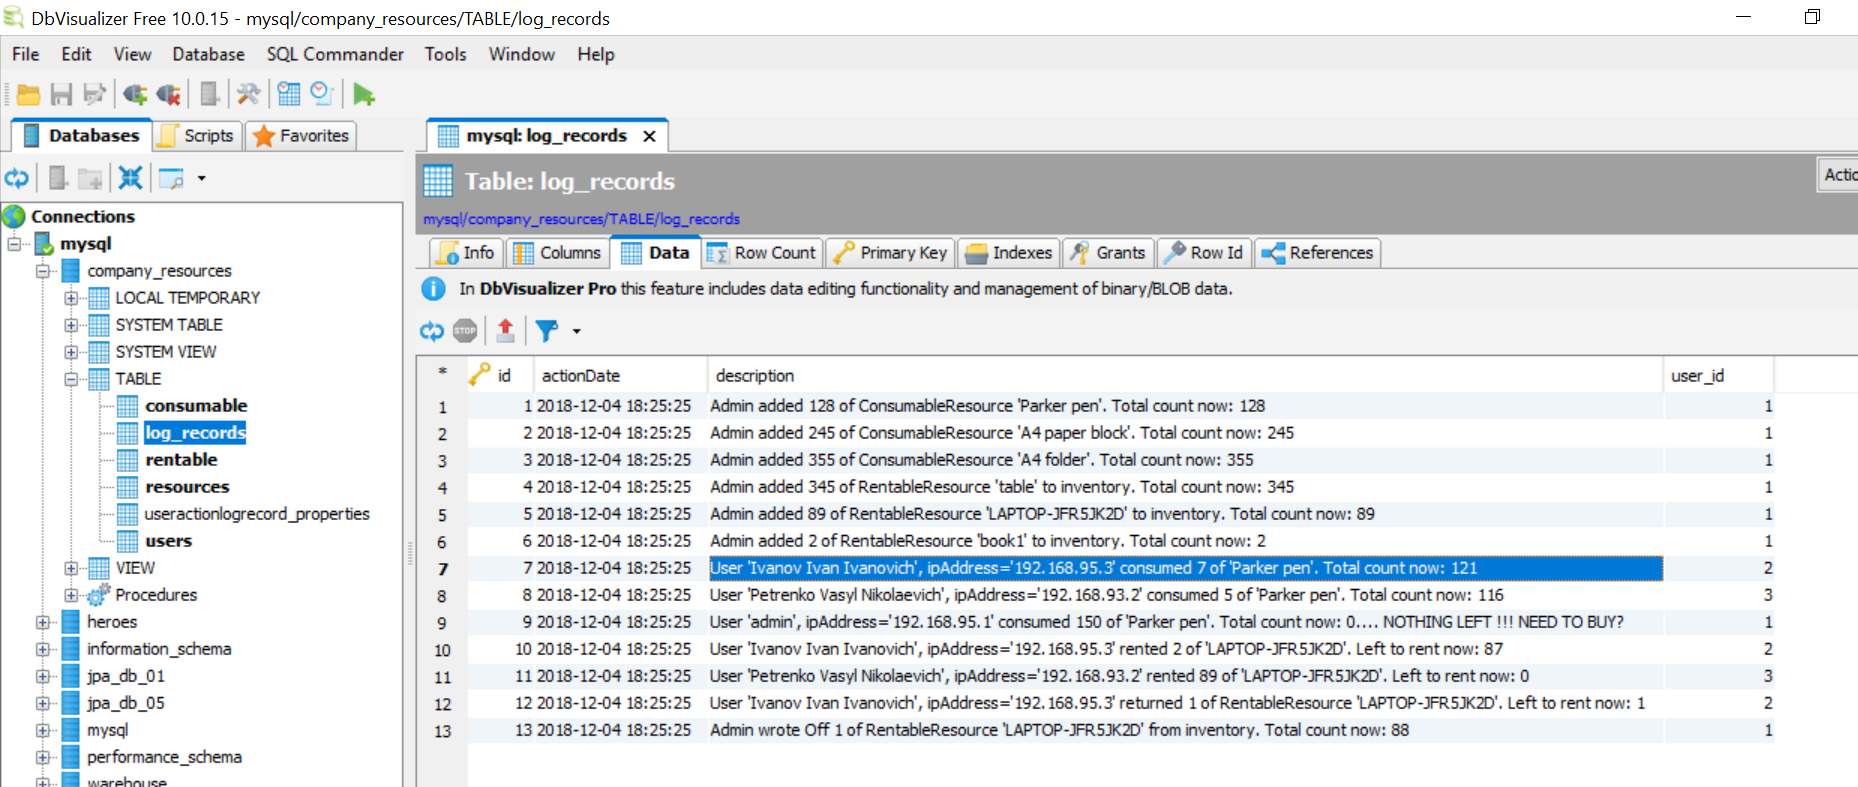
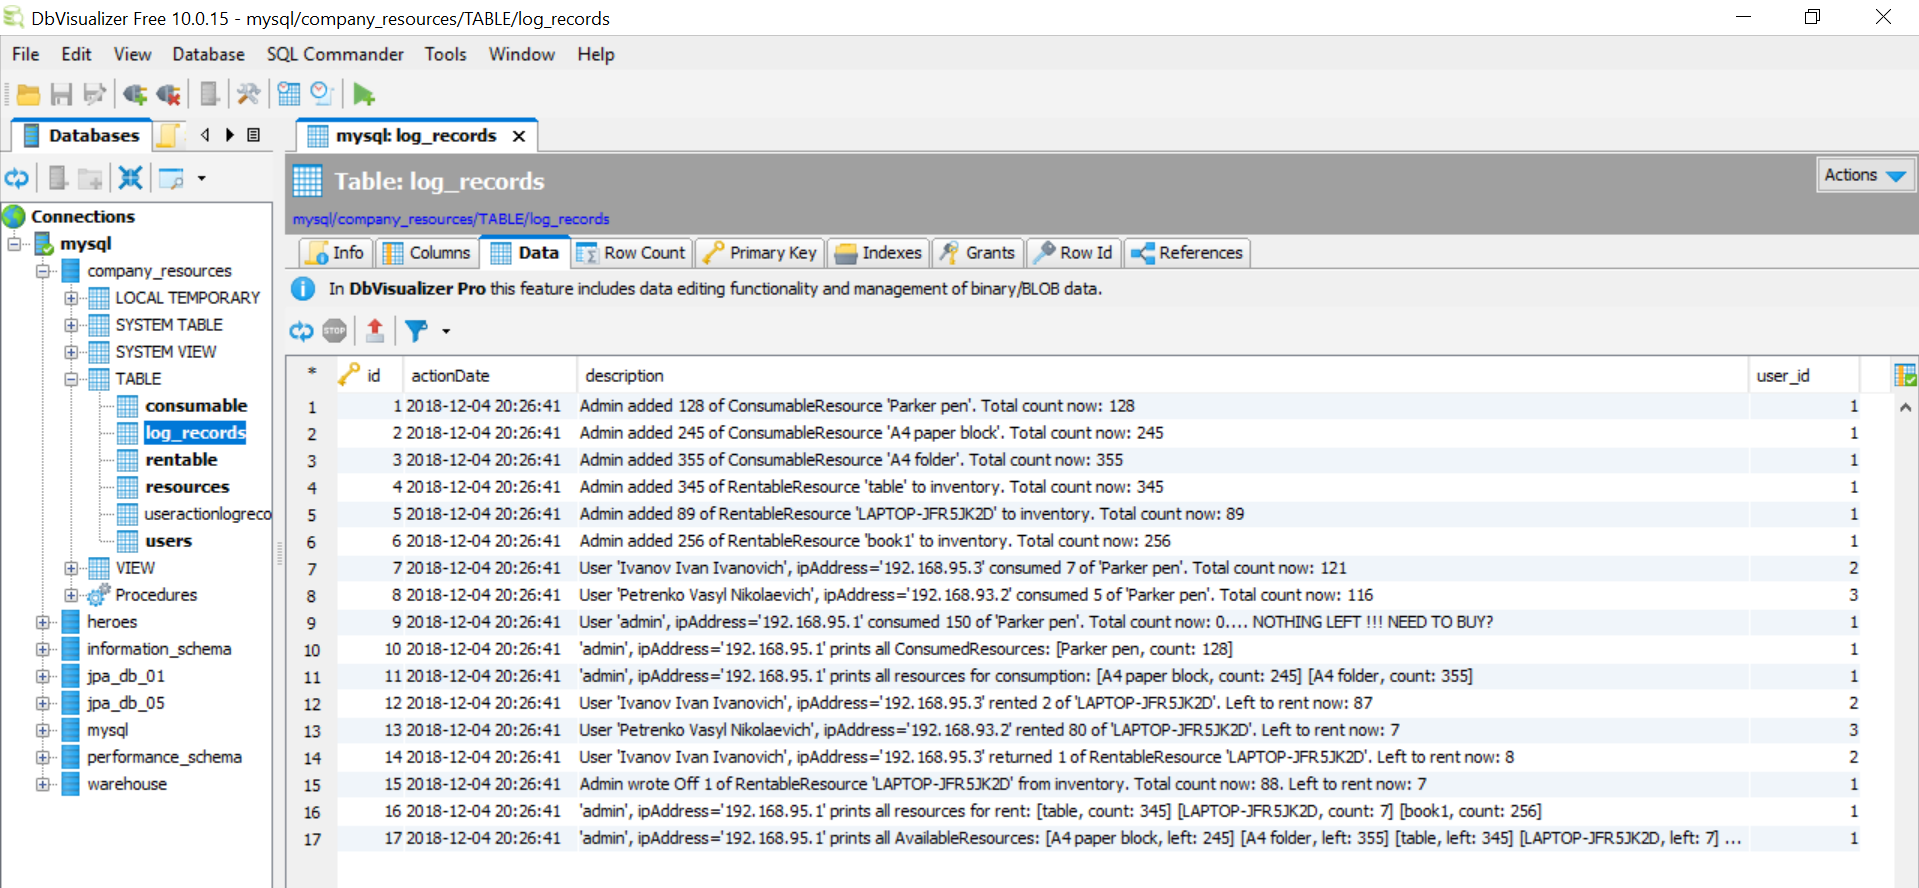
query listResourcesForRent() was added

diff --git a/src/main/java/com/gmail/kramarenko104/Launcher.java b/src/main/java/com/gmail/kramarenko104/Launcher.java
@@ -76,19 +76,19 @@ public class Launcher {
         RentableResource rentRes3 = new RentableResource();
         rentRes3.setId(6);
         rentRes3.setName("book1");
-        rentServ.addResourceToInventory(admin, rentRes3, 2);
+        rentServ.addResourceToInventory(admin, rentRes3, 256);
 
         //////////////////////////////////////////////////////////////
         // all these actions should be added to log
         consServ.consumeResource(user1, consRes1, 7);
         consServ.consumeResource(user2, consRes1, 5);
-        consServ.consumeResource(admin, consRes1, 10);
+        consServ.consumeResource(admin, consRes1, 150);
         consServ.printListConsumedResources(admin);
         consServ.printListResourcesForConsumption(admin);
 
         ////////////////////
         rentServ.checkoutResource(user1, rentRes2, 2);
-        rentServ.checkoutResource(user2, rentRes2, 89);
+        rentServ.checkoutResource(user2, rentRes2, 80);
         rentServ.checkinResource(user1, rentRes2, 1);
         rentServ.writeOffResourceFromInventory(admin, rentRes2, 1);
         rentServ.printListResourcesForRent(admin);

diff --git a/src/main/java/com/gmail/kramarenko104/service/RentableResourceService.java b/src/main/java/com/gmail/kramarenko104/service/RentableResourceService.java
@@ -1,6 +1,5 @@
 package com.gmail.kramarenko104.service;
 
-import com.gmail.kramarenko104.entity.ConsumableResource;
 import com.gmail.kramarenko104.entity.RentableResource;
 import com.gmail.kramarenko104.entity.User;
 import javax.persistence.EntityManager;
@@ -34,6 +33,7 @@ public class RentableResourceService extends CommonResourceService {
         String description = "Admin wrote Off " + amount +
                 " of RentableResource " + resource.toString() +
                 " from inventory. Total count now: " + resource.getTotalAmount() +
+                ". Left to rent now: " + resource.getLeftAmount() +
                 ((resource.getTotalAmount() == 0) ? ".... NOTHING LEFT !!! NEED TO BUY?": "");
         log.recordUserAction(user, new Date(), description);
     }
@@ -79,4 +79,5 @@ public class RentableResourceService extends CommonResourceService {
         }
         log.recordUserAction(user, new Date(), sb.toString());
     }
+
 }

diff --git a/src/main/java/com/gmail/kramarenko104/entity/RentableResource.java b/src/main/java/com/gmail/kramarenko104/entity/RentableResource.java
@@ -1,17 +1,20 @@
 package com.gmail.kramarenko104.entity;
 
 import javax.persistence.Entity;
+import javax.persistence.NamedQueries;
 import javax.persistence.NamedQuery;
 import javax.persistence.Table;
 
 @Entity
 @Table(name = "rentable")
-@NamedQuery(name = "listResourcesForRent", query = "select r from RentableResource r where r.leftAmount > 0")
+@NamedQueries({
+        @NamedQuery(name = "listResourcesForRent", query = "select r from RentableResource r where r.leftAmount > 0"),
+})
 public class RentableResource extends Resource {
 
     private int totalAmount;
 
-    public RentableResource(){
+    public RentableResource() {
         super();
     }
 
@@ -33,7 +36,7 @@ public class RentableResource extends Resource {
         super.addResource(rentBackAmount);
     }
 
-    public void removeResource(int amount){
+    public void removeResource(int amount) {
         super.removeResource(amount);
         totalAmount -= amount;
     }
